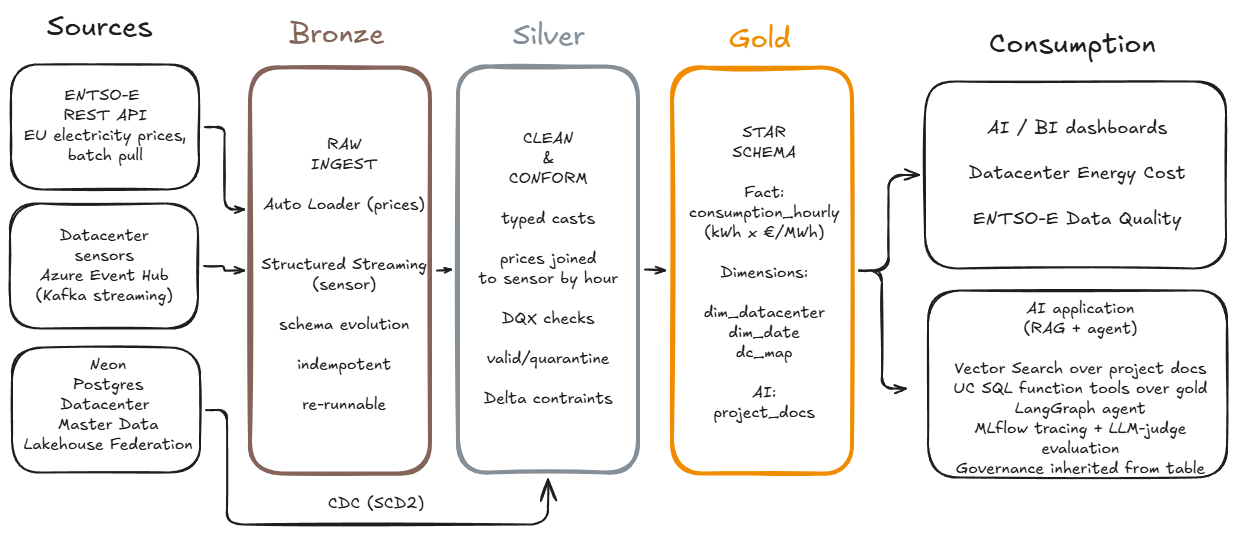
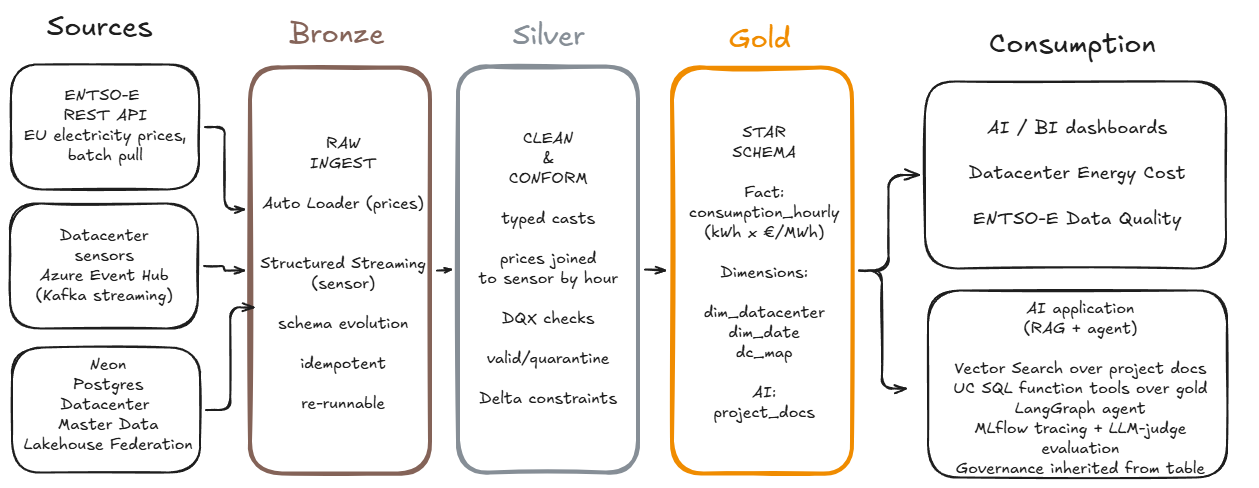
Ai fix (#22)
* AI file fixed

* README updated

diff --git a/GenAI/GenAI_ENTSOE_demo.py b/GenAI/GenAI_ENTSOE_demo.py
@@ -65,7 +65,7 @@ DOCS_TABLE   = f"{CATALOG}.{GOLD_SCHEMA}.project_docs"
 VS_INDEX     = f"{CATALOG}.{GOLD_SCHEMA}.project_docs_index"
 UC_MODEL     = f"{CATALOG}.{GOLD_SCHEMA}.entsoe_support_agent"
 
-VS_ENDPOINT  = "entsoe_vs" if TARGET_ENV == "dev" else "prod-retail-rag-endpoint"
+VS_ENDPOINT  = "entsoe_vs" if TARGET_ENV == "dev" else "powerbi_docs_vs_endpoint"
 
 LLM_ENDPOINT       = "databricks-meta-llama-3-3-70b-instruct"
 EMBEDDING_ENDPOINT = "databricks-gte-large-en"

diff --git a/README.md b/README.md
@@ -14,7 +14,7 @@ Built as the individual Final Project for the SoftServe Databricks Academy.
 ![Architecture](docs/architecture.png)
 
 - **Sources** – ENTSO-E REST API (prices, batch), datacenter sensors via Azure Event Hub
-  (streaming), and datacenter master data in Neon Postgres (read live via Lakehouse Federation).
+  (streaming), and datacenter master data in Neon Postgres (read live via Lakehouse Federation, snapshotted into bronze).
 - **Medallion** – one declarative Lakeflow pipeline builds silver + gold with DQX quality checks;
   Lakeflow Jobs orchestrate ingestion, the pipeline, dimensions and dashboard refresh.
 - **Consumers** – a Datacenter Energy Cost dashboard and a Data Quality scorecard, plus a RAG +
@@ -168,8 +168,11 @@ there is no access-control code in the agent itself.
 ## Advanced capabilities
 
 Beyond the baseline, the platform uses three: **REST API automation** (ENTSO-E ingest + the SDK
-orchestrator), **Lakehouse Federation** (datacenter master read live from Neon Postgres), and
-**CDC / SCD2** (history on the federated datacenter dimension). Zerobus was evaluated as an
+orchestrator), **Lakehouse Federation** (datacenter master read live from Neon Postgres and snapshotted into
+bronze), and
+**CDC / SCD2** (auto-CDC on the sensor stream in the Lakeflow pipeline, plus a history-tracked
+`dim_datacenter` in silver). A separate SCD2-over-Neon build in `Lab10` demonstrates the same
+capability on the federated dimension but is not wired into the pipeline. Zerobus was evaluated as an
 alternative sensor ingestion path but not adopted – the production pipeline stays on the classic
 Event Hub + Structured Streaming route.
 
